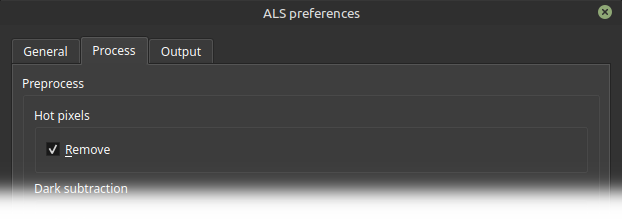
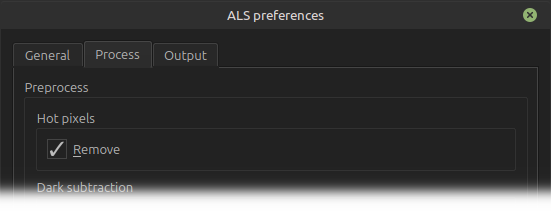
update v1.0 prefs processing tab docs screenshots

diff --git a/website/content/fr/docs/v1.0/userguide/preferences/processing/_index.md b/website/content/fr/docs/v1.0/userguide/preferences/processing/_index.md
@@ -2,7 +2,7 @@
 title: "Onglet Traitement"
 description: "Documentation de l'onglet Traitement des préférences d'ALS"
 author: "ALS Team"
-lastmod: 2026-06-06T17:30:43Z
+lastmod: 2026-06-10T17:27:30Z
 keywords: ["ALS processing settings", "préférences traitement ALS"]
 draft: false
 type: "docs"
@@ -16,7 +16,7 @@ Les réglages des traitements d'ALS sont présentés dans l'onglet `Traitement`
 # Vue d'ensemble
 
 <div class="row">
-<div class="col-md-6">
+<div class="col-md-5">
 
 Cet onglet ne contient qu'une seule section : [Preprocess](#preprocess)
 
@@ -27,12 +27,12 @@ Elle regroupe les réglages des tâches de **calibration** :
 - [Dématriçage](#debayer)
 
 </div>
-<div class="col-md-6 d-flex align-items-center justify-content-center">
+<div class="col-md-7 d-flex align-items-center justify-content-center">
 {{< center >}}
 {{< figure src="whole_tab.png"
 caption="L'onglet Traitement des préférences"
-width="628px"
-height="548px"
+width="577px"
+height="546px"
 alt="Fenêtre de préférences ALS avec l'onglet Traitement sélectionné, affichant les paramètres de prétraitement des images, y compris les options de suppression des pixels chauds, de soustraction dark et de motif de dématriçage, avec chemins spécifiés et boutons Modifier et Effacer." >}}
 {{< /center >}}
 
@@ -50,8 +50,8 @@ alt="Fenêtre de préférences ALS avec l'onglet Traitement sélectionné, affic
 {{< center >}}
 {{< figure src="hot_remove.png"
 caption="Réglages de suppression des pixels chauds"
-width="622px"
-height="217px"
+width="577px"
+height="209px"
 alt="" >}}
 {{< /center >}}
 
@@ -64,8 +64,8 @@ alt="" >}}
 {{< center >}}
 {{< figure src="dark_remove.png"
 caption="Réglages de soustraction de dark"
-width="628px"
-height="177px"
+width="577px"
+height="163px"
 alt="Interface logicielle affichant les options pour utiliser la soustraction de dark et changer le chemin du master dark." >}}
 {{< /center >}}
 
@@ -102,8 +102,8 @@ Si les dimensions sont différentes :
 {{< center >}}
 {{< figure src="flat_remove.png"
 caption="Réglages de calibration flat"
-width="628px"
-height="177px"
+width="577px"
+height="166px"
 alt="Interface logicielle affichant les options pour utiliser la calibration flat et changer le chemin du master flat." >}}
 {{< /center >}}
 
@@ -134,8 +134,8 @@ Si les dimensions sont différentes :
 {{< center >}}
 {{< figure src="debayer.png"
 caption="Réglage du dématriçage"
-width="628px"
-height="212px"
+width="577px"
+height="203px"
 alt="Interface logicielle affichant les préférences de traitement d'image avec des options pour définir le chemin de signal noir et sélectionner le motif de dématriçage, y compris AUTO et divers motifs de filtres de couleur." >}}
 {{< /center >}}
 

diff --git a/website/content/en/docs/v1.0/userguide/preferences/processing/_index.md b/website/content/en/docs/v1.0/userguide/preferences/processing/_index.md
@@ -2,7 +2,7 @@
 title: "Process Tab"
 description: "ALS Preferences Process Tab Documentation"
 author: "ALS Team"
-lastmod: 2026-06-06T17:30:43Z
+lastmod: 2026-06-10T17:27:30Z
 keywords: ["ALS processing settings", "ALS processing preferences"]
 draft: false
 type: "docs"
@@ -16,7 +16,7 @@ The ALS processing settings are presented in the Preferences page `Process` tab
 # Overview
 
 <div class="row">
-<div class="col-md-6">
+<div class="col-md-4">
 
 This tab contains only one section: [Preprocess](#preprocess)
 
@@ -27,12 +27,12 @@ It gathers the settings for all **calibration** tasks:
 - [Debayering](#debayer)
 
 </div>
-<div class="col-md-6 d-flex align-items-center justify-content-center">
+<div class="col-md-8 d-flex align-items-center justify-content-center">
 {{< center >}}
 {{< figure src="whole_tab.png"
 caption="Preferences page Process tab"
-width="628px"
-height="548px"
+width="551px"
+height="546px"
 alt="ALS preferences window with Process tab selected, showing settings for pre-processing images, including hot pixel remover, dark subtraction, and debayering pattern options, with paths specified and Change and Clear buttons." >}}
 {{< /center >}}
 
@@ -50,8 +50,8 @@ alt="ALS preferences window with Process tab selected, showing settings for pre-
 {{< center >}}
 {{< figure src="hot_remove.png"
 caption="Hot pixel removal settings"
-width="622px"
-height="224px"
+width="551px"
+height="211px"
 alt="Software interface showing the Pre-Processing category with an option to Use hot pixel remover checked." >}}
 {{< /center >}}
 
@@ -64,8 +64,8 @@ alt="Software interface showing the Pre-Processing category with an option to Us
 {{< center >}}
 {{< figure src="dark_remove.png"
 caption="Dark subtraction settings"
-width="628px"
-height="173px"
+width="551px"
+height="166px"
 alt="Software interface showing options to use dark subtraction and change the specified master dark path." >}}
 {{< /center >}}
 
@@ -101,8 +101,8 @@ If the dimensions are different:
 {{< center >}}
 {{< figure src="flat_remove.png"
 caption="Flat calibration settings"
-width="628px"
-height="184px"
+width="551px"
+height="168px"
 alt="Software interface showing options to use flat calibration and change the specified master flat path" >}}
 {{< /center >}}
 
@@ -130,8 +130,8 @@ If the dimensions are different:
 {{< center >}}
 {{< figure src="debayer.png"
 caption="Debayering settings"
-width="628px"
-height="210px"
+width="551px"
+height="216px"
 alt="Software interface showing image processing preferences with options for setting Dark path and selecting Debayering pattern, including AUTO and various color filter array patterns." >}}
 {{< /center >}}
 
